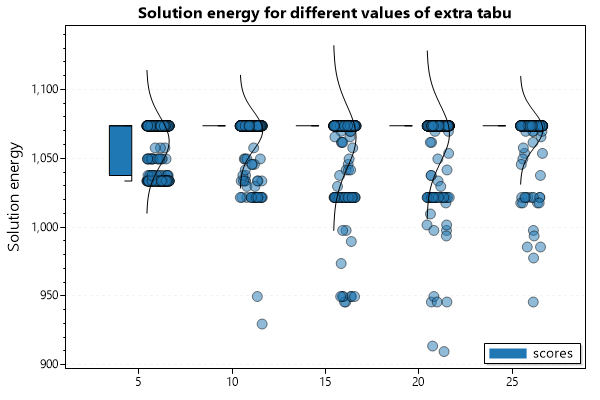
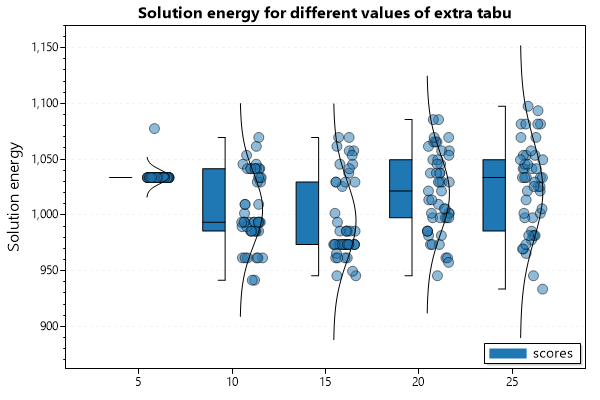
fix images

diff --git a/TabuSearch/Program.cs b/TabuSearch/Program.cs
@@ -21,21 +21,17 @@ namespace TabuSearch
 
             var algorithmRuns = 50;
             var timeLimitInSeconds = 120;
-            var searchIterations = new List<int>() {900, 1100, 1300, 1500};
+            var searchIterations = new List<int>() { 900, 1100, 1300, 1500 };
             var multipleResultsIterations = runner.RunWithMultipleIterations(algorithmRuns, problem, search, searchIterations, 20, 4, timeLimitInSeconds);
             plotGenerator.GenerateMultipleBoxAndWhiskers(multipleResultsIterations, searchIterations, "Solution energy for different values of search iterations", "multiple results iterations");
 
-            //var minTabus = new List<int>(){10, 20, 30, 40, 50};
-            //var multipleResultsMinTabu = runner.RunWithMultipleMinTabu(algorithmRuns, problem, search, 100, minTabus, 4, timeLimitInSeconds);
+            //var minTabus = new List<int>() { 10, 20, 30, 40, 50 };
+            //var multipleResultsMinTabu = runner.RunWithMultipleMinTabu(algorithmRuns, problem, search, 100, minTabus, 4, 1);
             //plotGenerator.GenerateMultipleBoxAndWhiskers(multipleResultsMinTabu, minTabus, "Solution energy for different values of min tabu", "multiple results min tabu");
 
-            //var extraTabus = new List<int>(){5, 10, 15, 20, 25};
-            //var multipleResultsExtraTabu = runner.RunWithMultipleExtraTabu(algorithmRuns, problem, search, 100, 20, extraTabus, timeLimitInSeconds);
+            //var extraTabus = new List<int>() { 5, 10, 15, 20, 25 };
+            //var multipleResultsExtraTabu = runner.RunWithMultipleExtraTabu(algorithmRuns, problem, search, 100, 20, extraTabus, 1);
             //plotGenerator.GenerateMultipleBoxAndWhiskers(multipleResultsExtraTabu, extraTabus, "Solution energy for different values of extra tabu", "multiple results extra tabu");
-
-
-
-
         }
     }
 }
